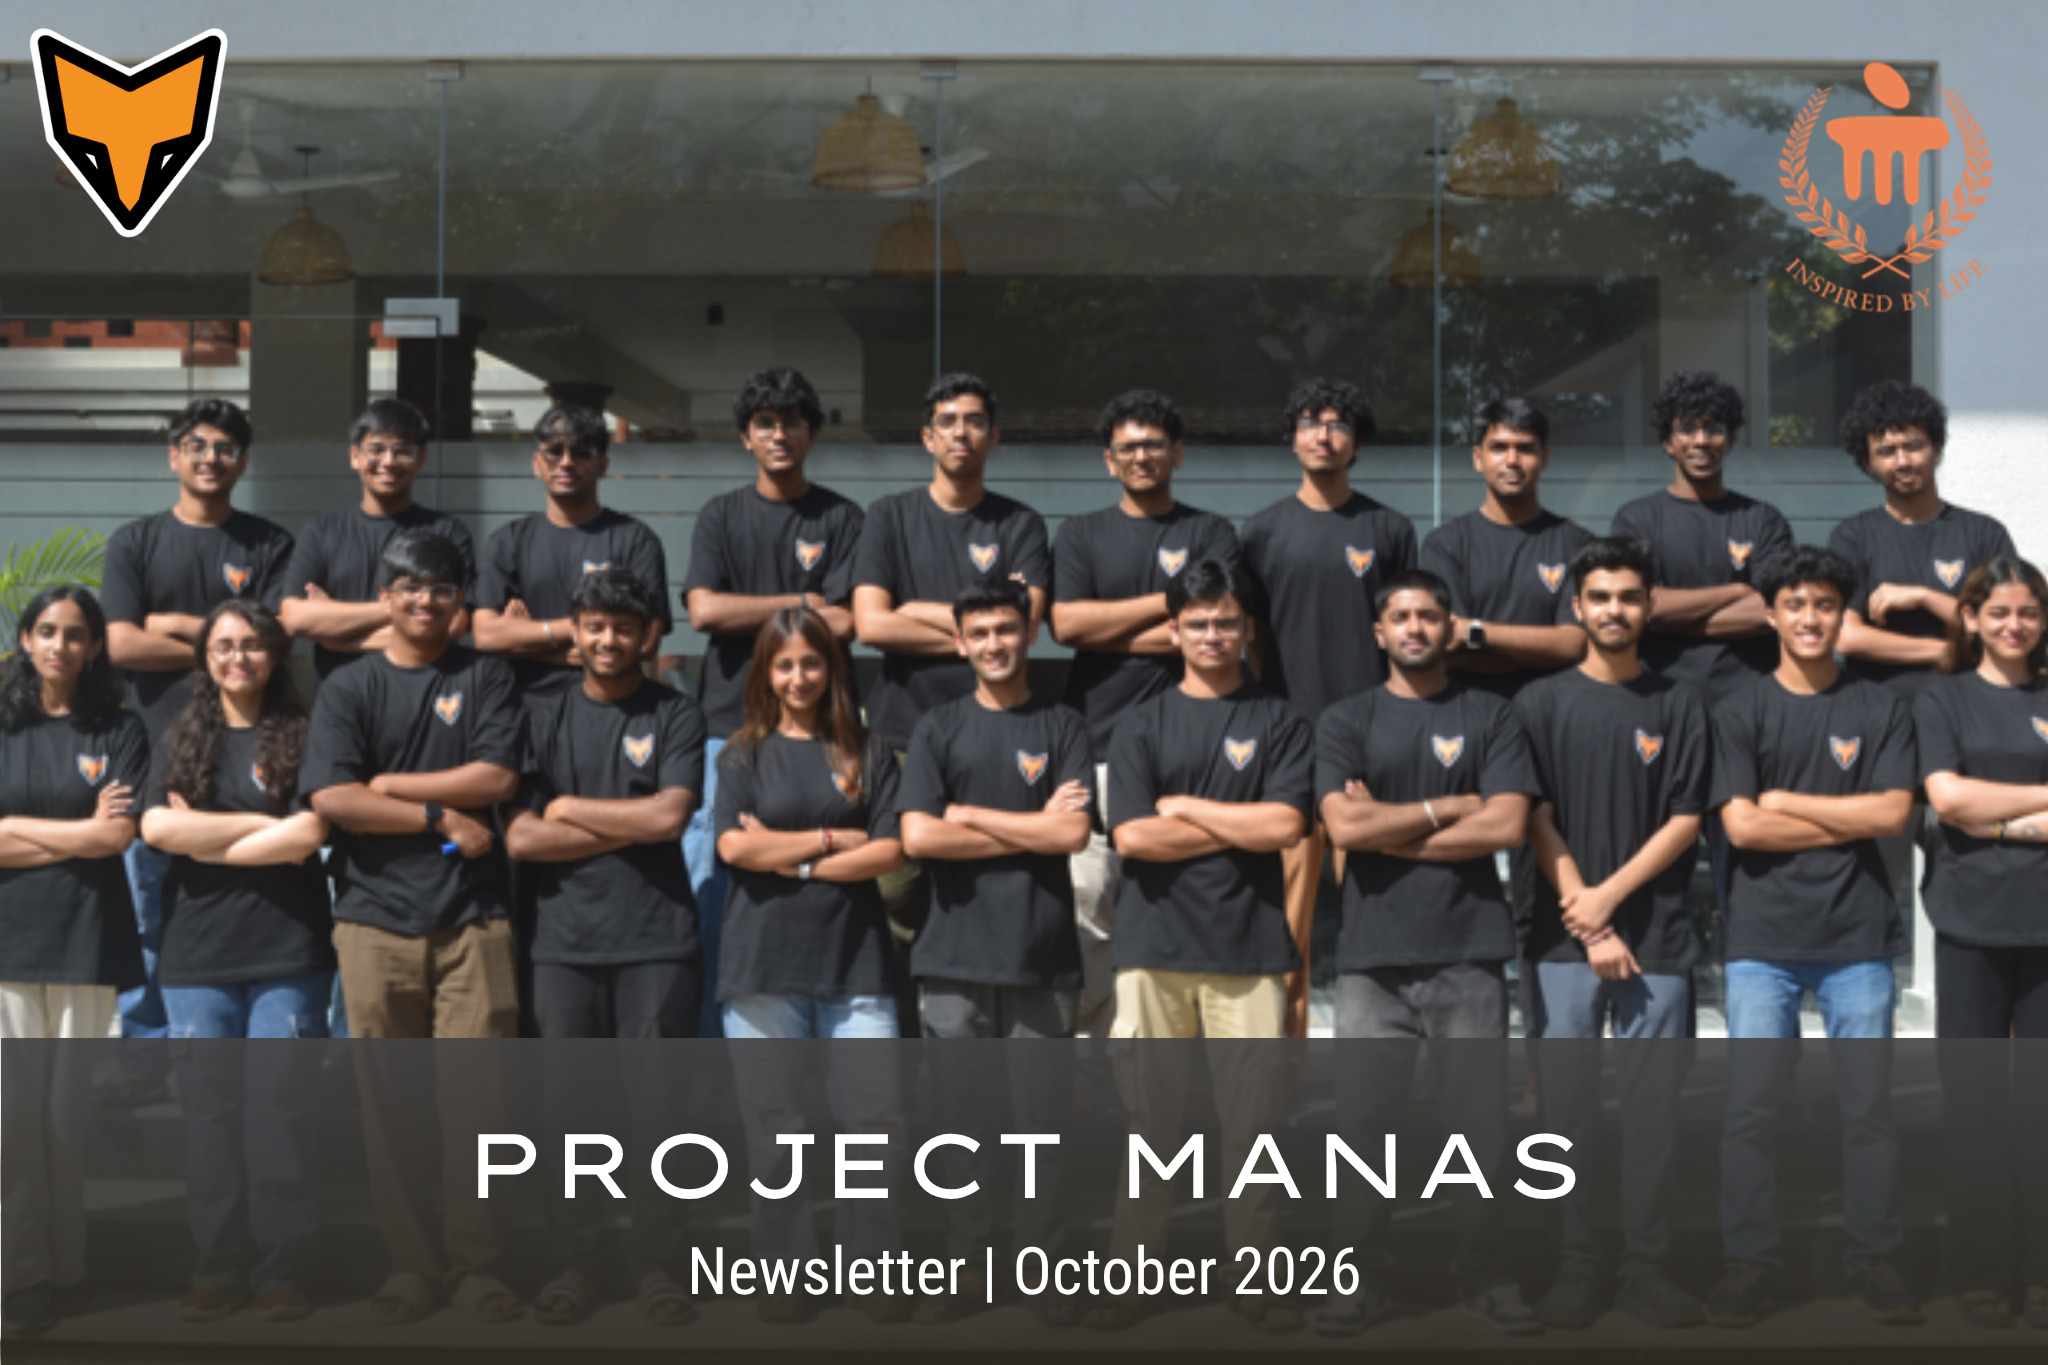
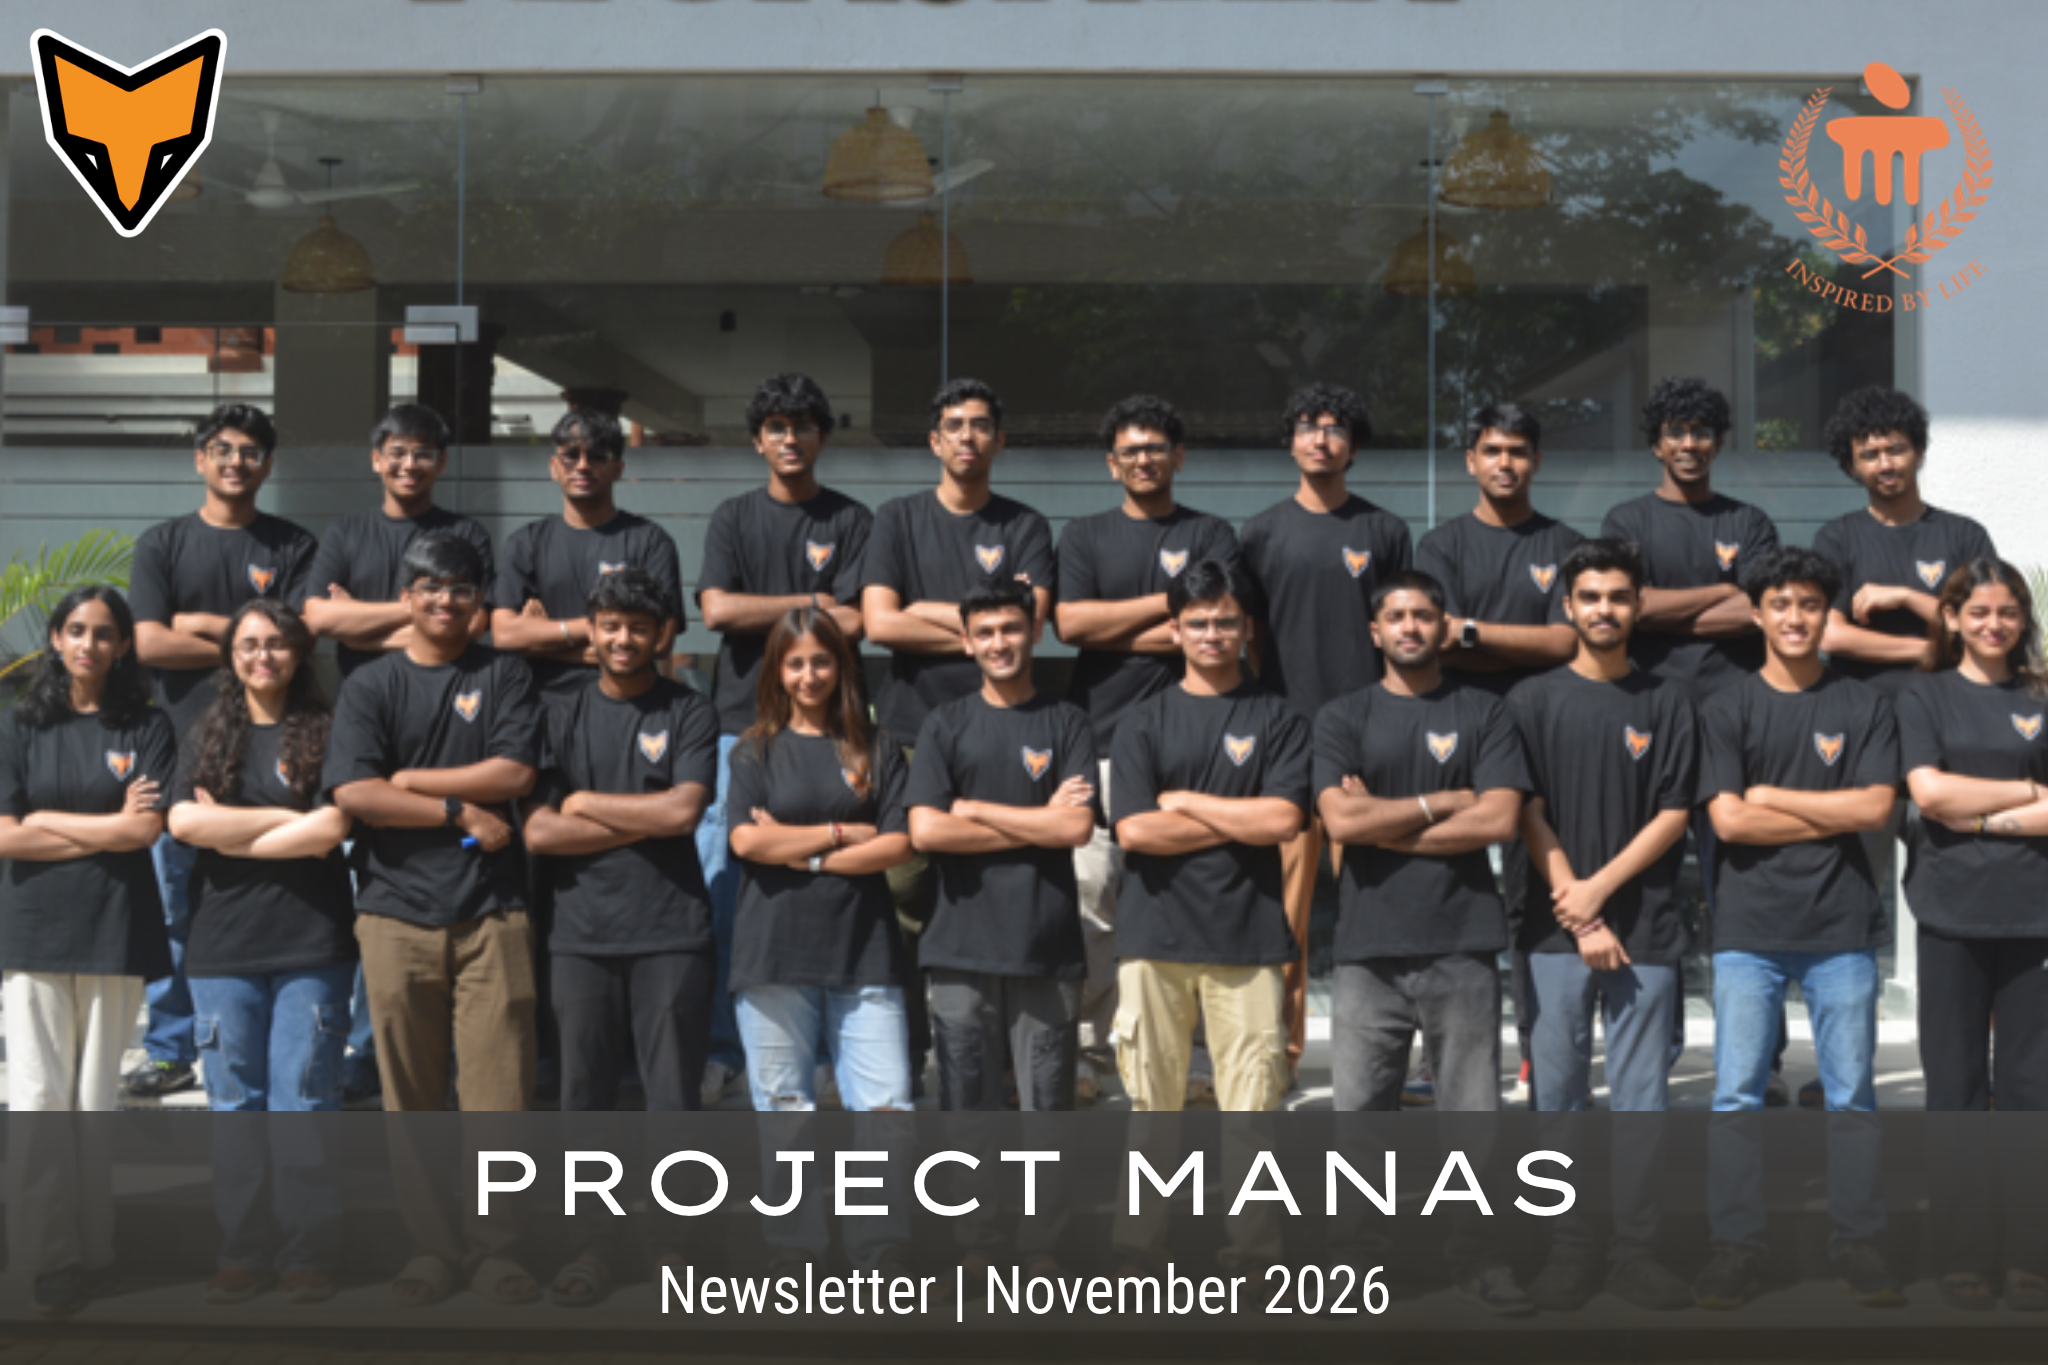
changed team picture to blurry

diff --git a/november_2026/index.html b/november_2026/index.html
@@ -14,7 +14,7 @@
 const cfg = {
   base: "https://michelle-maria-andrade.github.io/manas_newsletter/november_2026/",
   imgs: {
-    team:      "pictures/team.png",
+    team:      "pictures/team_blurry.png",
     nidar:     "pictures/nidar_anchor.png",
     igvc:      "pictures/igvc_anchor.png",
     fixedwing: "pictures/fixedwing_anchor.png",
